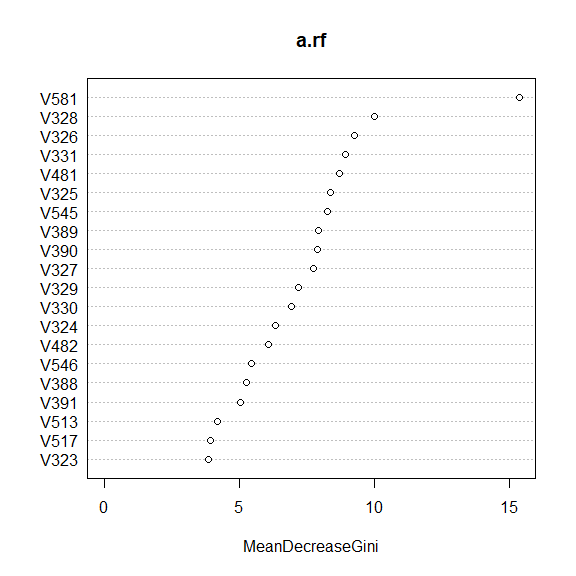
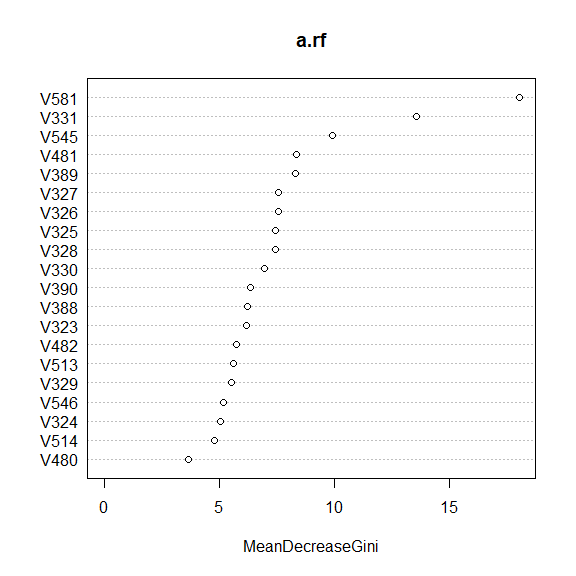
a small update

diff --git a/Lecture17/README.md b/Lecture17/README.md
@@ -1,7 +1,7 @@
 STAT406 - Lecture 17 notes
 ================
 Matias Salibian-Barrera
-2017-10-31
+2017-11-01
 
 LICENSE
 -------
@@ -27,7 +27,7 @@ xtr$V618 <- as.factor(xtr$V618)
 xte$V618 <- as.factor(xte$V618)
 ```
 
-We first train a Random Forest, using all the default parameters, and check its performance on the test set:
+To train a Random Forest we use the function `randomForest` in the package of the same name. The code underlying this package was originally written by Leo Breiman. We train a RF leaving all paramaters at their default values, and check its performance on the test set:
 
 ``` r
 library(randomForest)
@@ -67,13 +67,67 @@ a.rf
     ## 3  235   5  0.02083333
     ## 26   5 235  0.02083333
 
-To explore which variables were used in the forest, and also, their importance rank we use the function `varImpPlot`:
+#### Using a test set instead of OBB
+
+Given that in this case we do have a test set, we can use it to monitor the error rate (instead of using the OOB error estimates):
+
+``` r
+x.train <- model.matrix(V618 ~ ., data=xtr)
+y.train <- xtr$V618
+x.test <- model.matrix(V618 ~ ., data=xte)
+y.test <- xte$V618
+set.seed(123)
+a.rf <- randomForest(x=x.train, y=y.train, xtest=x.test, ytest=y.test, ntree=500) 
+test.err <- a.rf$test$err.rate
+ma <- max(c(test.err))
+plot(test.err[, 2], lwd=2, lty=1, col='red', type='l', ylim=c(0, max(c(0, ma))))
+lines(test.err[, 3], lwd=2, lty=1, col='green')
+lines(test.err[, 1], lwd=2, lty=1, col='black')
+```
+
+![](README_files/figure-markdown_github-ascii_identifiers/rf.isolet.test-1.png)
+
+According to the help page for the `plot` method for objects of class `randomForest`, the following plot should show both error rates (OOB plus those on the test set):
+
+``` r
+plot(a.rf, lwd=2)
+```
+
+![](README_files/figure-markdown_github-ascii_identifiers/rf.isolet.test.plot-1.png)
+
+``` r
+a.rf
+```
+
+    ## 
+    ## Call:
+    ##  randomForest(x = x.train, y = y.train, xtest = x.test, ytest = y.test,      ntree = 500) 
+    ##                Type of random forest: classification
+    ##                      Number of trees: 500
+    ## No. of variables tried at each split: 24
+    ## 
+    ##         OOB estimate of  error rate: 2.5%
+    ## Confusion matrix:
+    ##      3  26 class.error
+    ## 3  235   5  0.02083333
+    ## 26   7 233  0.02916667
+    ##                 Test set error rate: 0.83%
+    ## Confusion matrix:
+    ##     3 26 class.error
+    ## 3  60  0  0.00000000
+    ## 26  1 59  0.01666667
+
+#### Feature sequencing / Variable ranking
+
+To explore which variables were used in the forest, and also, their importance rank as discussed in class, we can use the function `varImpPlot`:
 
 ``` r
 varImpPlot(a.rf, n.var=20)
 ```
 
 ![](README_files/figure-markdown_github-ascii_identifiers/rf.isolet3-1.png)
+
+#### Comparing RF with other classifiers
 
 We now compare the Random Forest with some of the other classifiers we saw in class, using their classification error rate on the test set as our comparison measure. We first start with K-NN:
 
@@ -95,8 +149,8 @@ table(u5, xte$V618)
 
     ##     
     ## u5    3 26
-    ##   3  58  5
-    ##   26  2 55
+    ##   3  58  6
+    ##   26  2 54
 
 ``` r
 u10 <- knn(train=xtr[, -618], test=xte[, -618], cl=xtr[, 618], k = 10)
@@ -105,8 +159,8 @@ table(u10, xte$V618)
 
     ##     
     ## u10   3 26
-    ##   3  58  6
-    ##   26  2 54
+    ##   3  58  5
+    ##   26  2 55
 
 ``` r
 u20 <- knn(train=xtr[, -618], test=xte[, -618], cl=xtr[, 618], k = 20)
@@ -125,8 +179,8 @@ table(u50, xte$V618)
 
     ##     
     ## u50   3 26
-    ##   3  59  6
-    ##   26  1 54
+    ##   3  58  6
+    ##   26  2 54
 
 To use logistic regression we first create a new variable that is 1 for the letter **C** and 0 for the letter **Z**, and use it as our response variable.
 
